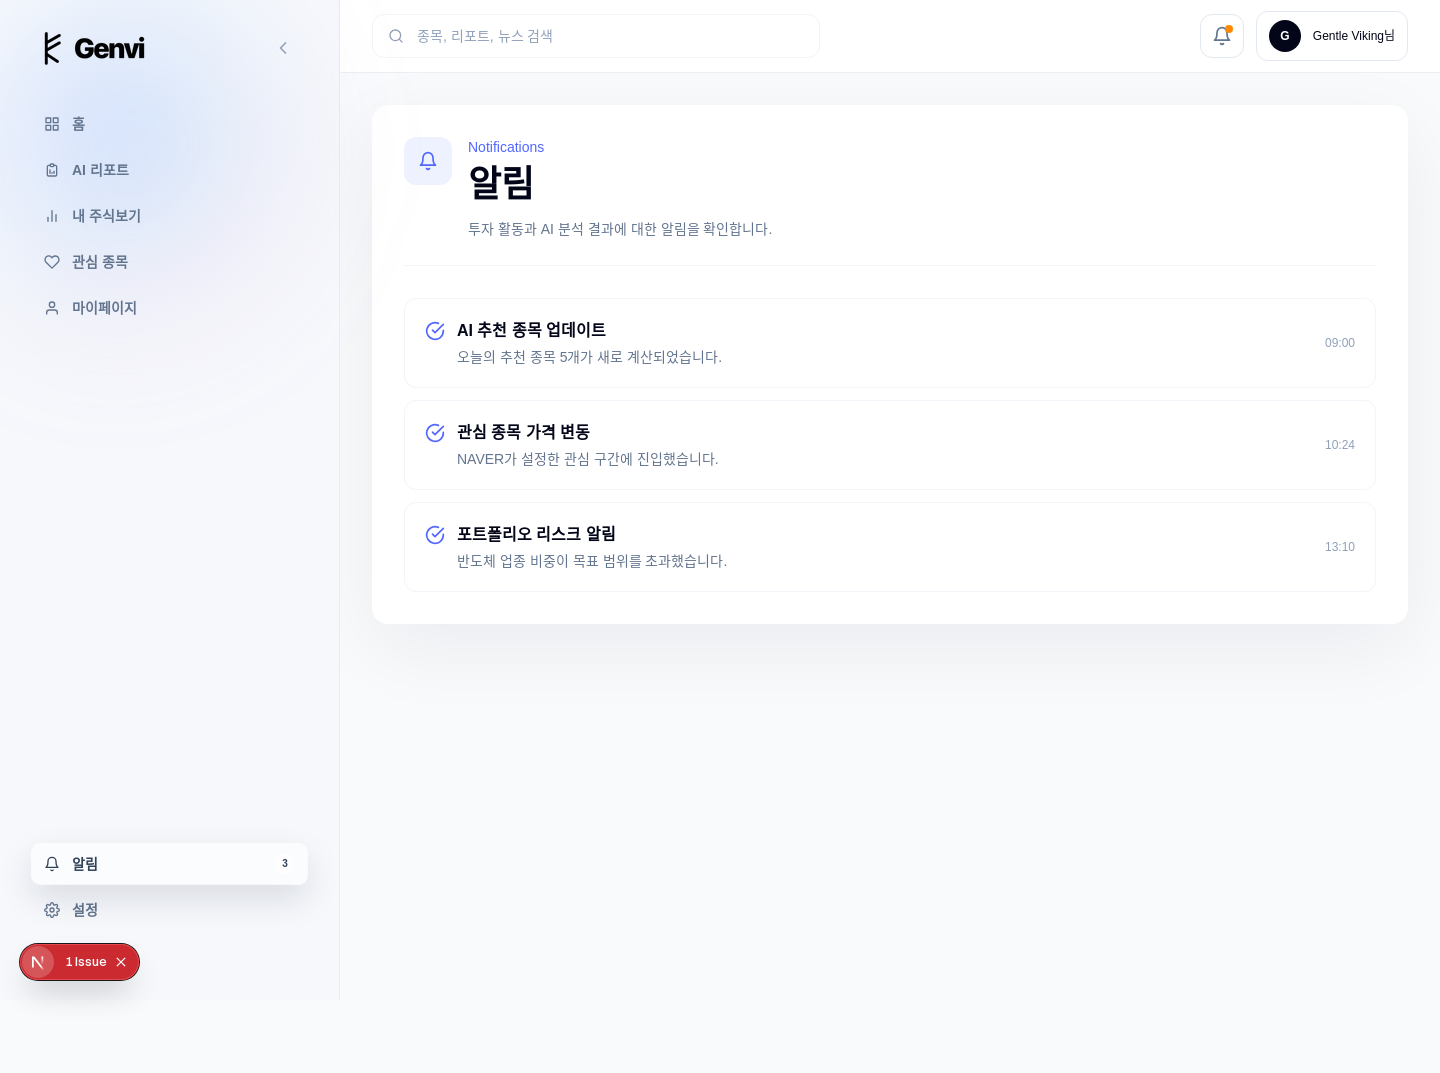
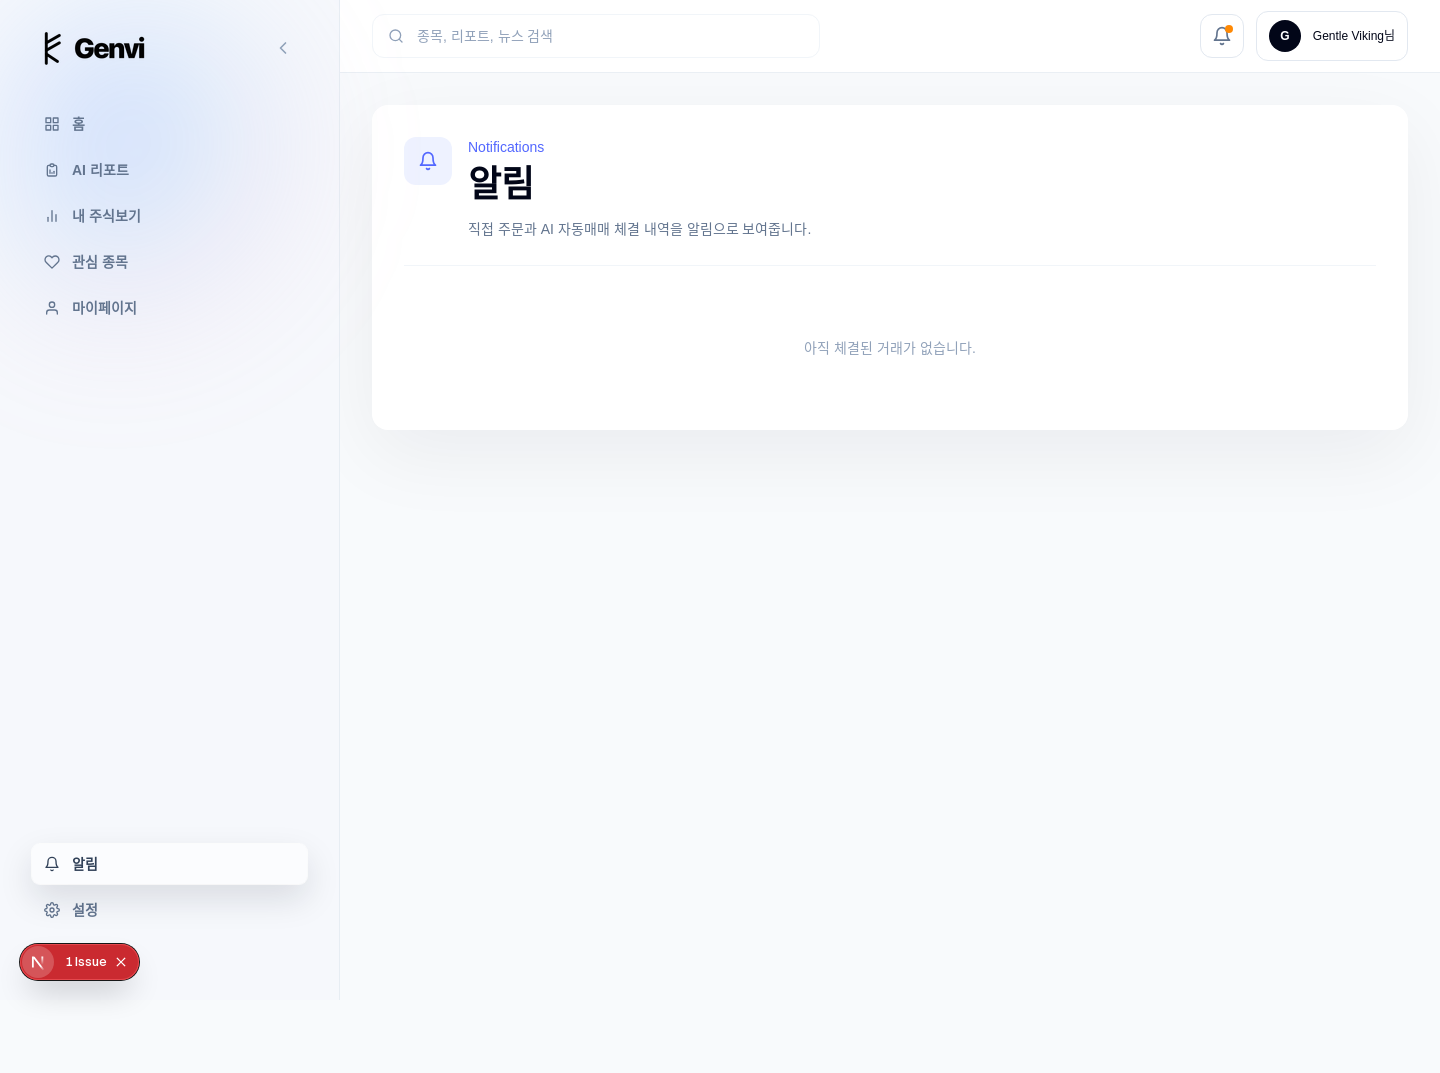
docs: refresh UI gallery screenshots + functional test notes
Re-captured all 13 screens after the fake-feature fixes (favorites
persistence, real Naver/DART news+disclosures, real recent-stocks view
history, real profit-analysis/assets data, real notification feed,
honest settings/준비중 badges). Ran Playwright-driven functional tests
clicking through real flows (favorite add+persist, nickname save+
persist, manual order submit) rather than just screenshotting.

Noted in the doc: KIS 모의투자 order fills are restricted to real market
hours (09:00-15:30 KST weekdays), so the full order->holdings->
notification chain couldn't be verified end-to-end tonight (market
closed) -- the order endpoint correctly rejected the test order with
a real KIS "장종료" response, and that failure correctly shows up in
the order history tab and is correctly excluded from the notification
feed and AI trade history tab. Remaining gap is market-hours-only.

Claude-Session: https://claude.ai/code/session_01QWMoTHrS88tESWLVcNmbEz

diff --git a/docs/ui_screens_gallery.md b/docs/ui_screens_gallery.md
@@ -1,4 +1,4 @@
-# 화면 캡처 모음 (전체 페이지, 2026-10-27)
+# 화면 캡처 모음 (전체 페이지, 2026-10-27 최초 작성 / 2026-10-28 갱신)
 
 발표 자료용 참고 — 프론트엔드에 실제로 존재하는 화면을 전부 캡처했다. 로그인 없이, DB에서 새
 발급한 토큰을 브라우저에 주입해서 접근했다(실제 비밀번호 사용 안 함). 메인 발표 문서
@@ -10,16 +10,16 @@
 | `images/screens/01_landing.png` | 랜딩 페이지 | 비로그인, 일부 목업 데이터 |
 | `images/screens/02_login.png` | 로그인 | |
 | `images/screens/03_signup.png` | 회원가입 (1/2단계) | |
-| `images/screens/04_dashboard.png` | 홈(대시보드) | 실제 KIS 모의계좌 잔고(10,000,000원), 실시간 코스피/코스닥/환율, 실시간 종목 랭킹 |
+| `images/screens/04_dashboard.png` | 홈(대시보드) | 실제 KIS 모의계좌 잔고(10,000,000원), 실시간 코스피/코스닥/환율·종목 랭킹, 실제 Naver 뉴스·DART 공시, 실제 조회 이력 기반 "최근에 본 종목"(삼성전자/셀트리온) |
 | `images/screens/05_market.png` | 실시간 종목 랭킹 | 실제 KIS 거래대금 순위, 삼성전자(바구니 담김) 하이라이트 확인됨 |
 | `images/screens/06_market_detail.png` | 종목 상세(005930) | 실제 캔들차트, 매수/매도 버튼. 종목명 버그 고친 뒤 버전("삼성전자"로 정상 표시) |
 | `images/screens/07_portfolio.png` | 내 주식보기(포트폴리오+자동매매) | 이름/시세 버그 고친 뒤 버전. 메인 문서에 들어간 것과 동일 |
-| `images/screens/08_watchlist.png` | 관심 종목 | 빈 상태(아직 관심종목 없음) |
+| `images/screens/08_watchlist.png` | 관심 종목 | 관심종목 영속성 붙인 뒤 버전 — 실제로 담은 2종목(NAVER, 삼성전자)이 새로고침해도 유지됨 |
 | `images/screens/09_ai_report.png` | AI 리포트 홈 | 캡처 시점에 Gemini 리포트 생성 중 상태로 찍힘 |
 | `images/screens/10_ai_report_predict.png` | 종목별 AI 예측 상세(005930) | 매수 33%/관망 24%/매도 43%, 모델 버전(`staticwd`)까지 실제 값. 종목명 버그 고친 뒤("삼성전자") + 실제 ONCE 요청을 한 번 태워서 Gemini가 생성한 5개 카드(예측요약/주요피쳐/시간가중치/시장환경/투자유의)가 전부 실제 내용으로 채워진 상태 |
-| `images/screens/11_mypage.png` | 마이페이지 - 자산 | 실제 KIS 모의계좌 잔고·주문내역 구조 |
-| `images/screens/12_notifications.png` | 알림 | 목업 데이터로 보임 |
-| `images/screens/13_settings.png` | 설정 | |
+| `images/screens/11_mypage.png` | 마이페이지 - 자산 | 실제 KIS 모의계좌 잔고. 월별 수익(판매수익/배당금/이자) 칸은 모의투자 계좌가 제공하지 않는 값이라 정직하게 "모의투자 미지원"으로 표시하도록 바꿈(이전엔 항상 0원으로 떠서 실데이터처럼 보였음) |
+| `images/screens/12_notifications.png` | 알림 | 목업 배열이었던 걸 실제 체결 내역(`/trade/history`) 기반 피드로 교체. 이 계정은 아직 체결(FILLED) 거래가 없어 "아직 체결된 거래가 없습니다"로 정직하게 빈 상태 표시 — 장중(KIS 모의투자 09:00~15:30)에 주문이 실제 체결되면 바로 채워짐 |
+| `images/screens/13_settings.png` | 설정 | "알림 설정"/"보안 설정" 카드에 onClick이 없는데 hover만 되던 걸 "준비 중" 뱃지로 정직하게 표시 |
 
 ## 이번에 같이 고친 것
 
@@ -43,6 +43,54 @@
   그대로 텍스트로 보이던 문제 — 구분행(`| :--- |`)은 버리고, 데이터행은 셀을 " · "로 이어붙인
   한 줄로 바꿔서 해결.
 
+## 2026-10-28 갱신: "위장 기능"(동작하는 것처럼 보이지만 실제로 안 되는 기능) 정리
+
+프론트/백엔드 전체를 훑어서 "하드코딩이거나 가짜로 동작하는 척하는" 기능을 찾아 전부 실제
+기능으로 교체했다. Google 로그인(OAuth 키 미발급)만 빼고 전부 처리:
+
+- **관심 종목(즐겨찾기) 영속성** — 로컬 상태만 바뀌고 저장이 안 됐음. 백엔드에 `Favorite`
+  테이블/`/favorites` CRUD 라우트를 새로 만들고 프론트를 연결. 실제로 추가 → 새로고침해도
+  유지되는 것 확인.
+- **오늘의 뉴스 / 오늘의 공시** — 완전 목업 배열이었음. 이미 레포에 있던 Naver 뉴스 검색 API +
+  DART 공시 API 연동 코드(AI 리포트용으로 만들어져 있던 것)를 가볍게 재사용해서 실제 데이터로
+  교체. DART는 "현대차" 같은 약칭이 공식 등록명과 안 맞는 버그가 있어 종목코드로 조회하도록
+  고침.
+- **최근에 본 종목** — 고정 3종목 목업이었음. 종목 상세 페이지 방문 기록을 로컬에 남겨서
+  대시보드가 실제 조회 이력 + 실시간 시세로 보여주도록 교체.
+- **수익분석 / 자산 탭** — 월별 수익 그래프가 전부 하드코딩 숫자였음. 이미 실제 KIS 모의계좌
+  데이터를 쓰고 있던 자산 탭과 동일한 소스(`/account/assets`)로 교체해서 실제 평가손익/종목별
+  손익을 보여주도록 함. "채우기/보내기" 버튼(onClick 없음)과 판매수익/배당금/이자(항상 0으로
+  하드코딩)는 모의투자 계좌가 실제로 지원하지 않는 기능이라 제거하거나 "미지원"으로 정직하게
+  표시.
+- **주문내역 탭** — 완전 하드코딩 4행이었음. 알고 보니 수동 주문 자체가 `TradeLog`에 전혀
+  기록되지 않고 있어서(백엔드 갭), 주문 시도마다 성공/실패 관계없이 기록하도록 고친 뒤 프론트를
+  연결.
+- **알림 페이지 + 사이드바 뱃지** — 조작된 가짜 알림 3개 + 뱃지 숫자 "3" 고정이었음. 알림 전용
+  백엔드는 없어서(범위 밖), 실제 체결 내역(`/trade/history`)을 알림으로 재구성. 뱃지는 최근
+  24시간 체결 건수(0이면 숨김)로 교체.
+- **설정 페이지** — "알림 설정"/"보안 설정" 카드가 클릭해도 아무 일도 안 했는데 hover 효과만
+  있었음. 실제 백엔드가 없는 기능이라 "준비 중" 뱃지로 명시.
+- **대형주/소형주 배분 로직** — `cap_type` 분류가 TODO로 남아 항상 기본값만 쓰던 죽은 코드였음.
+  `ticker_universe.rank` 기준으로 실제 분류하도록 구현.
+- **닉네임 변경** — "변경사항 저장" 버튼이 아무 동작도 안 했었음. 실제 `PATCH /users/me`로
+  저장되도록 연결(중복 닉네임은 409로 처리).
+
+### 기능 테스트 결과 (Playwright로 실제 클릭/제출까지 재현)
+
+- 관심종목 추가 → 새로고침 → 유지됨: **확인**.
+- 닉네임 저장 → 새로고침 → 유지됨: **확인** (처음 테스트 때 입력 필드를 잘못 짚어서 실패로
+  보였는데, 올바른 필드로 재확인하니 정상 동작).
+- 수동 매수 주문 제출 → 실제 KIS 모의투자 서버가 "모의투자 장종료입니다"로 응답(테스트 시각이
+  장 마감 이후라서 정상적인 거부) → 그 실패 기록이 주문내역 탭에 실제로 뜨는 것까지 확인(이름
+  해석, 상태 배지 포함). AI자동거래내역 탭에는 안 섞이는 것도 확인.
+- 알림 피드는 FAILED 상태 거래를 올바르게 제외하는 것 확인(현재 체결된 거래가 없어 빈 상태로
+  뜨는 게 정상).
+- **장중에만 테스트 가능한 부분**(실제 체결 → 보유 종목 평가손익 → 체결 알림까지 이어지는
+  전체 흐름)은 KIS 모의투자 거래시간(평일 09:00~15:30 KST) 제한 때문에 이번엔 끝까지 확인하지
+  못했다. 코드 경로(주문 로그 기록, 자산/수익분석 데이터 소스, 알림 필터)는 전부 확인됐고,
+  남은 건 실제 체결 데이터가 들어오는 것만 보면 되는 상태.
+
 ## 발견했지만 아직 안 고친 것
 
-(현재 없음 — 발견한 문제는 전부 고침)
+- Google 로그인(OAuth) — 실제 Google Cloud Console에서 발급받은 `GOOGLE_CLIENT_ID`/
+  `GOOGLE_CLIENT_SECRET`가 있어야 해서 팀에서 직접 처리하기로 함.
